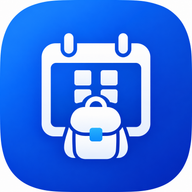
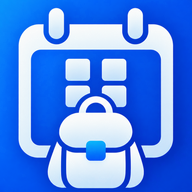
アプリアイコンを新デザインに差し替え (v0.5.6)
- 明青(通常)/紺(ダーク)の新絵柄を iOS・Android・PWA 全部に適用
  - iOS: AppIcon-512@2x.png と AppIcon-dark-512@2x.png を差し替え
  - Android: mipmap launcher/round/foreground 全dpiを再生成、
    adaptive 背景色を #096af9 -> #0573fc に更新
  - PWA: icon-192/icon-512 を差し替え (favicon も自動で新絵柄)
- 提供画像は角丸の周囲に透過があるため trim -> ズーム -> センタークロップで
  全面描画化してから生成 (透過角が黒く見えるのを防止、透過ピクセル0を検証済み)
- バージョン 0.5.6 / リリースノートと決定ログを更新

diff --git a/.github/release-notes.md b/.github/release-notes.md
@@ -1,11 +1,13 @@
-# v0.5.5
+# v0.5.6
 
 このリリースで変わったこと:
 
-- **内容が長いシートがスクロールできないことがあるバグを設計から直しました**。既存の予定を編集する画面など、情報が多くて下が見切れているときに、スワイプで下を見ることができないことがありました。原因は、シートが「閉じるためのドラッグ」として指を横取りした直後にスクロールへ譲る、という所有権の往復にあり(特に iOS で.oscroll の開始が壊れる)、**上や横の指は最初から表示に触れない・閉じる引き下げだけが指を引き取る**設計に組み直しました。どのシートでも、溢れた内容は必ずスワイプで読めます。
-- **Web 版(PWA)のアイコンを新しいPNGに置き換えました**: これまでブラウザタブや PWA 用に旧デザインの SVG が参照され続けており、そのままだと Windows でインストールした PWA のアイコンが旧デザイン(周囲に余白のある旧絵柄)のままでした。manifest と favicon の参照を新 PNG だけに変えて旧 SVG は同梱をやめました。**すでに Windows にインストール済みの PWA は、いったんアンインストールして再追加すると新しいアイコンになります**(Chrome はアイコンをインストール時に記録します)。
+- **アプリのアイコンを新しいデザインに差し替えました**。カレンダーとリュックの新しい絵柄(明るい青)を iOS・Android・Web(PWA)のすべてに適用しています。iOS はダークモード用の紺バージョンも対応。
+- 受け取ったアイコン画像は角丸の周囲に透過部分があったため、**全面が描画されるように拡大切り出しをしてから**各サイズを生成しています(端末側のマスクで透明な角が黒く見える問題の防止)。
+- Android のアダプティブアイコン背景色も新しい絵柄に合わせて更新しました。
 
 iOS 版と Android 版を同じリリースに添付しています。
 
-- iOS: SideStore で `PackCalendar-0.5.5.ipa` を読み込んで上書き（データは消えません）。
-- Android: `PackCalendar-0.5.5.apk` をインストール（データは消えません）。
+- iOS: SideStore で `PackCalendar-0.5.6.ipa` を読み込んで上書き(データは消えません)。
+- Android: `PackCalendar-0.5.6.apk` をインストール(データは消えません)。
+- Web 版(Windows PWA)は、アイコンを更新するため一度アンインストールして再追加してください(Chrome はアイコンをインストール時に記録するため)。

diff --git a/決定ログ.md b/決定ログ.md
@@ -106,6 +106,14 @@
 - 設定の「書き出す」が iOS アプリで動かなかった。WKWebView では `<a download>`（ブラウザのダウンロード）が無効。ネイティブでは JSON を一時ファイルに書いて iOS の共有シート（@capacitor/share）を出す。ブラウザ・PWA・Android も同じ共有方式で動く。
 - 「ファイル」内の自動バックアップの名前を `backup-YYYY-MM-DD.json` から `backup-YYYY-MM-DD-HHMMSS.json`（取得した時刻の秒まで）に変えた（ユーザーの希望）。保存は1日1回のまま（`lastBackup` で制御）で、最新7件を残す。
 
+## 2026-10-18 v0.5.6: アプリアイコンを新デザインへ全面差し替え
+
+- ユーザー提供の新アイコン(明青=通常/紺=ダーク)を iOS・Android・PWA 全部に適用。iOS は既存の dark appearance (AppIcon-dark-512@2x.png) をそのまま差し替え、Contents.json 変更なし。
+- 提供画像は 1254×1254 の角丸アートが四方の透過マージン付き(bbox 約1160px、角半径約330-360px)。**trim → ズーム(1.2〜1.7のループで全周のアルファ検証) → センタークロップ**で全面描画化してから各サイズを生成。端末マスクで透過角が黒になるのを防ぐ。
+- 生成物: iOS 1024 light+dark / PWA 192・512(favicon は icon-192 参照のまま自動で新絵柄) / Android mipmap launcher+round (48-192) + foreground フルスクエア (108-432) / adaptive背景色を #096af9 → #0573fc(新アートの左端中間色サンプル)に更新。
+- パイプライン脚本は C:\temp\opencode\gen-icons-056.mjs に保管(ソース: C:\temp\opencode\icon2-1.png がダーク、icon2-2.png がライト)。
+- バージョン 0.5.6。ユーザー指示で apk 同梱 (タグ `v0.5.6`)。既存インストール済み PWA のアイコンは再追加で更新が必要。
+
 ## 2026-10-18 v0.5.5: シートは必ずスクロールできる設計に組み直し、Web アイコンを PNG へ
 
 - ユーザー報告: 既存予定の編集シートで情報が多いと下が見切れ、スワイプで下を見られない。実測では `.sheet-body` は overflow auto で scrollable>0・scrollTo も効く (= CSS は正しい)。壊れているのは touch 側の所有権: body 起点で touchstart の時点で `setDragging(true)` (dragging クラス+inline transform 付与) して最初の touchmove で返す往復が、iOS のスクロール開始を壊す。
